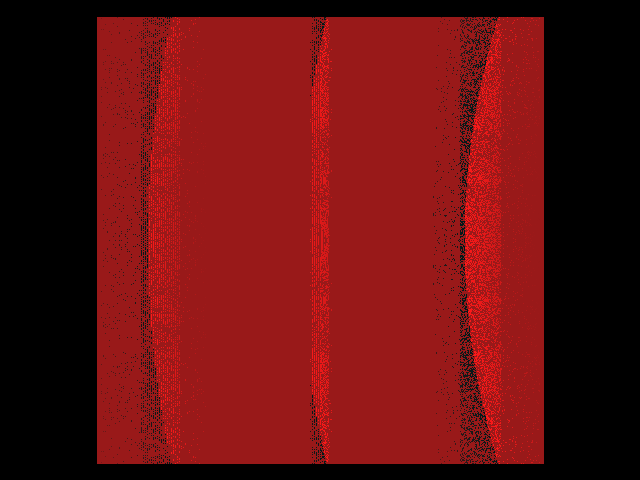
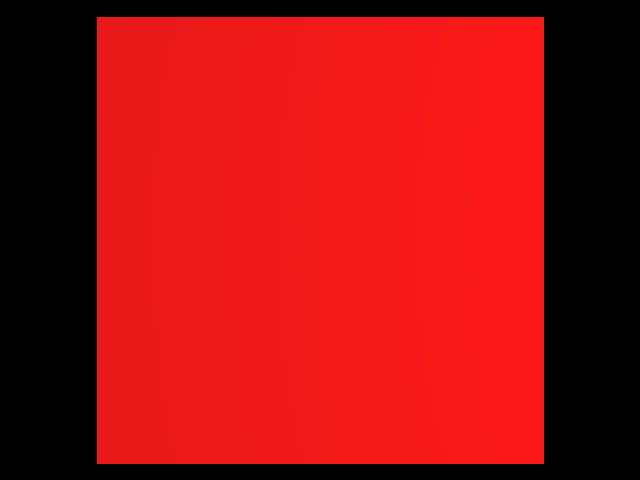
Fixing to normal calc. scene4-diffuse done

diff --git a/variables.h b/variables.h
@@ -13,7 +13,7 @@ using namespace glm;
 #ifndef VARIABLES_FILE_H
 #define VARIABLES_FILE_H
 #define PI 3.1415926535897931159979634685442
-#define EPS std::numeric_limits<double>::epsilon()
+#define EPS std::numeric_limits<float>::epsilon()
 
 // SCENE
 int WIDTH, HEIGHT, DEPTH;
@@ -145,8 +145,10 @@ public:
     }
     vec3 interpolateNormal(const vec3 &p)
     {
-        vec3 t_p = vec4(p, 1.0) * inv_tr;
-        return vec3(vec4(t_p - c, 1.0) * transpose(inv_tr));
+        vec4 t_p = inv_tr * vec4(p, 1.0f);
+        vec3 pt = vec3(t_p.x / t_p.w, t_p.y / t_p.w, t_p.z / t_p.w);
+
+        return vec3(transpose(inv_tr) * vec4(pt - c, 0.0));
     }
 };
 
@@ -268,7 +270,7 @@ public:
         if (type == "point")
         {
             float r = length(pos - hp);
-            light_c *= (1.0f / ATTEN.x * r * r + ATTEN.y * r + ATTEN.z);
+            light_c *= (1.0f / (ATTEN.z * r * r + ATTEN.y * r + ATTEN.x));
         }
         return light_c;
     }
